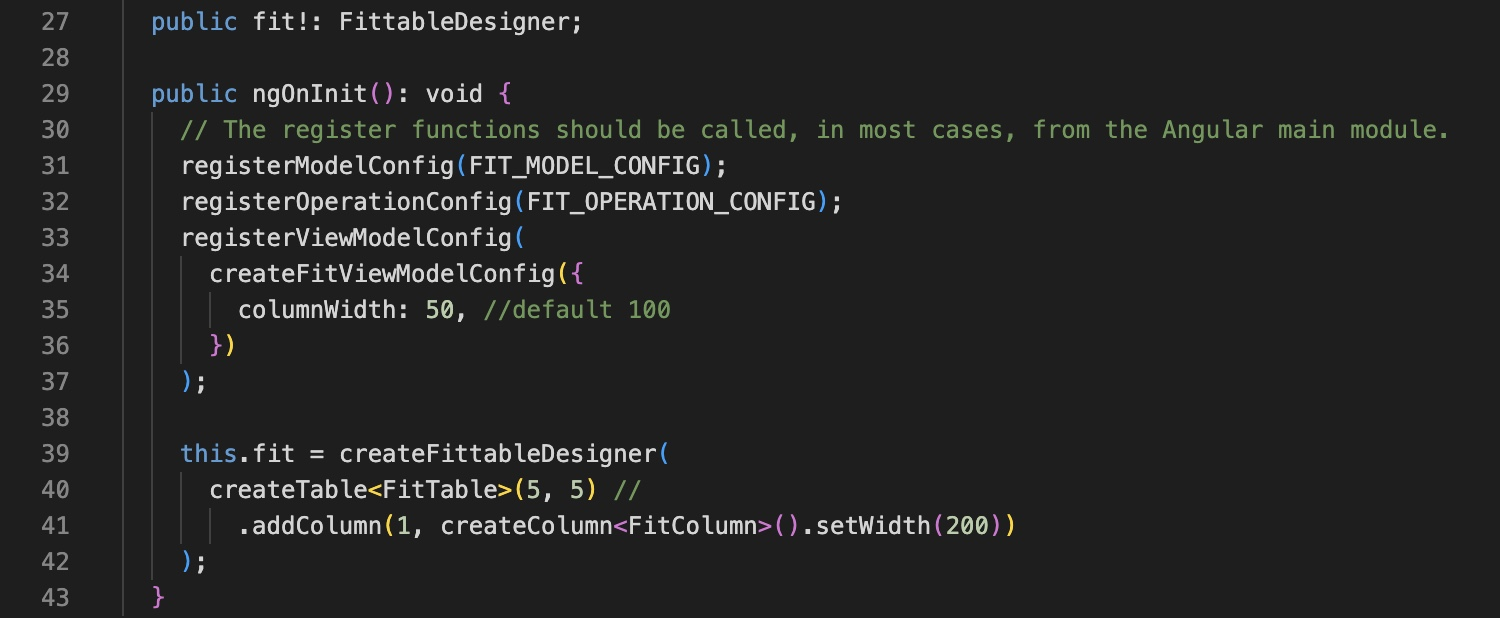
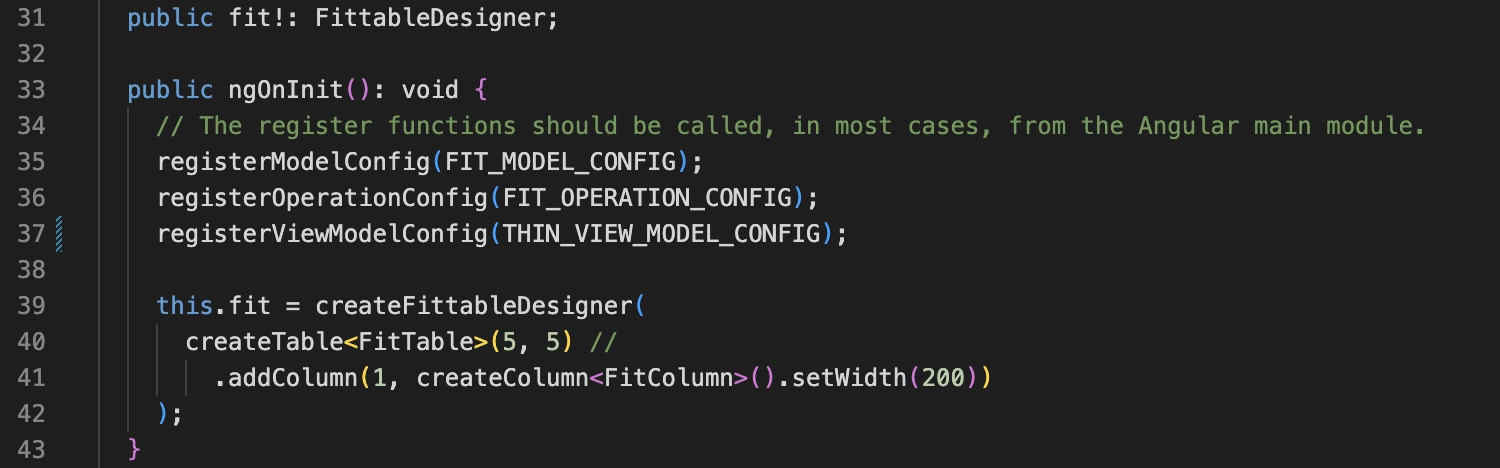
Create user docs app

Changed region(s): [[0.0, 0.0, 0.9813, 0.9872], [0.0, 0.8675, 0.0307, 0.8974], [0.0, 0.3291, 0.0307, 0.359]]

diff --git a/angular-app/ngx-fittable-docs/src/app/app.module.ts b/angular-app/ngx-fittable-docs/src/app/app.module.ts
@@ -6,9 +6,7 @@ import { NgxFittableModule } from 'ngx-fittable';
 import { AppComponent } from './app.component';
 import { NavigationTreeComponent } from './navigation-tree/navigation-tree.component';
 import { IntroductionComponent } from './topics/getting-started/introduction/introduction.component';
-import { RowHeaderComponent } from './topics/table-model/row-header.component';
 import { RowHeightComponent } from './topics/table-model/row-height.component';
-import { ColumnHeaderComponent } from './topics/table-model/column-header.component';
 import { ColumnWidthtComponent } from './topics/table-model/column-width.component';
 import { CellValueComponent } from './topics/table-model/cell-value.component';
 import { CellStyleComponent } from './topics/table-model/cell-style.component';
@@ -34,6 +32,10 @@ import { MergeCellsComponent } from './topics/table-operations/merge-cells.compo
 import { UnmergeCellsComponent } from './topics/table-operations/unmerge-cells.component';
 import { OperationDtoComponent } from './topics/table-operations/operation-dto.component';
 import { CustomOperationComponent } from './topics/table-operations/custom-operation.component';
+import { RowHeaderComponent } from './topics/table-designer/row-header.component';
+import { ColumnHeaderComponent } from './topics/table-designer/column-header.component';
+import { RowHeightsComponent } from './topics/table-designer/row-heights.component';
+import { ColumnWidthtsComponent } from './topics/table-designer/column-widths.component';
 import { TableScrollerComponent } from './topics/table-designer/table-scroller.component';
 import { CellSelectionComponent } from './topics/table-designer/cell-selection.component';
 import { CellEditorComponent } from './topics/table-designer/cell-editor.component';
@@ -53,9 +55,7 @@ import { ArchitectureComponent } from './topics/getting-started/architecture/arc
     NavigationTreeComponent,
     IntroductionComponent,
     ArchitectureComponent,
-    RowHeaderComponent,
     RowHeightComponent,
-    ColumnHeaderComponent,
     ColumnWidthtComponent,
     CellValueComponent,
     CellStyleComponent,
@@ -81,6 +81,10 @@ import { ArchitectureComponent } from './topics/getting-started/architecture/arc
     UnmergeCellsComponent,
     OperationDtoComponent,
     CustomOperationComponent,
+    RowHeaderComponent,
+    ColumnHeaderComponent,
+    RowHeightsComponent,
+    ColumnWidthtsComponent,
     TableScrollerComponent,
     CellSelectionComponent,
     CellEditorComponent,

diff --git a/angular-app/ngx-fittable-docs/src/app/topics/table-designer/column-widths.component.ts b/angular-app/ngx-fittable-docs/src/app/topics/table-designer/column-widths.component.ts
@@ -1,32 +1,32 @@
 import { Component, OnInit } from '@angular/core';
 
-import { createColumn, createTable, registerModelConfig } from 'fit-core/model';
+import { createTable, registerModelConfig } from 'fit-core/model';
 import { registerOperationConfig } from 'fit-core/operations';
 import {
   createFittableDesigner,
   FittableDesigner,
   registerViewModelConfig,
 } from 'fit-core/view-model';
-import { FitColumn, FitTable, FIT_MODEL_CONFIG } from 'fit-model';
+import { FIT_MODEL_CONFIG } from 'fit-model';
 import { FIT_OPERATION_CONFIG } from 'fit-model-operations';
-import { THIN_VIEW_MODEL_CONFIG } from 'fit-view-model';
+import { createFitViewModelConfig } from 'fit-view-model';
 
 import { CodeSnippet } from '../common/code-snippet.model';
 import { TopicTitle } from '../../common/topic-title.model';
 import { SimpleTopic } from '../common/simple-topic.model';
 
 @Component({
-  selector: 'column-width',
+  selector: 'column-widths',
   templateUrl: '../common/simple-topic.html',
   styleUrls: ['../common/simple-topic.css', '../common/common.css'],
 })
-export class ColumnWidthtComponent implements SimpleTopic, OnInit {
-  public readonly title: TopicTitle = 'Column width';
+export class ColumnWidthtsComponent implements SimpleTopic, OnInit {
+  public readonly title: TopicTitle = 'Column widths';
   public readonly htmlCode: CodeSnippet[] = [
     { image: 'fittable-component-html.jpg' },
   ];
   public readonly typescriptCode: CodeSnippet[] = [
-    { image: 'column-width-ts.jpg' },
+    { image: 'column-widths-ts.jpg' },
   ];
   public fit!: FittableDesigner;
 
@@ -34,11 +34,12 @@ export class ColumnWidthtComponent implements SimpleTopic, OnInit {
     // The register functions should be called, in most cases, from the Angular main module.
     registerModelConfig(FIT_MODEL_CONFIG);
     registerOperationConfig(FIT_OPERATION_CONFIG);
-    registerViewModelConfig(THIN_VIEW_MODEL_CONFIG);
-
-    this.fit = createFittableDesigner(
-      createTable<FitTable>(5, 5) //
-        .addColumn(1, createColumn<FitColumn>().setWidth(200))
+    registerViewModelConfig(
+      createFitViewModelConfig({
+        columnWidths: 50, //default 100
+      })
     );
+
+    this.fit = createFittableDesigner(createTable(5, 5));
   }
 }

diff --git a/angular-app/ngx-fittable-docs/src/app/topics/table-designer/row-heights.component.ts b/angular-app/ngx-fittable-docs/src/app/topics/table-designer/row-heights.component.ts
@@ -1,32 +1,32 @@
 import { Component, OnInit } from '@angular/core';
 
-import { createColumn, createTable, registerModelConfig } from 'fit-core/model';
+import { createTable, registerModelConfig } from 'fit-core/model';
 import { registerOperationConfig } from 'fit-core/operations';
 import {
   createFittableDesigner,
   FittableDesigner,
   registerViewModelConfig,
 } from 'fit-core/view-model';
-import { FitColumn, FitTable, FIT_MODEL_CONFIG } from 'fit-model';
+import { FIT_MODEL_CONFIG } from 'fit-model';
 import { FIT_OPERATION_CONFIG } from 'fit-model-operations';
-import { THIN_VIEW_MODEL_CONFIG } from 'fit-view-model';
+import { createFitViewModelConfig } from 'fit-view-model';
 
 import { CodeSnippet } from '../common/code-snippet.model';
 import { TopicTitle } from '../../common/topic-title.model';
 import { SimpleTopic } from '../common/simple-topic.model';
 
 @Component({
-  selector: 'column-width',
+  selector: 'row-heights',
   templateUrl: '../common/simple-topic.html',
   styleUrls: ['../common/simple-topic.css', '../common/common.css'],
 })
-export class ColumnWidthtComponent implements SimpleTopic, OnInit {
-  public readonly title: TopicTitle = 'Column width';
+export class RowHeightsComponent implements SimpleTopic, OnInit {
+  public readonly title: TopicTitle = 'Row heights';
   public readonly htmlCode: CodeSnippet[] = [
     { image: 'fittable-component-html.jpg' },
   ];
   public readonly typescriptCode: CodeSnippet[] = [
-    { image: 'column-width-ts.jpg' },
+    { image: 'row-heights-ts.jpg' },
   ];
   public fit!: FittableDesigner;
 
@@ -34,11 +34,12 @@ export class ColumnWidthtComponent implements SimpleTopic, OnInit {
     // The register functions should be called, in most cases, from the Angular main module.
     registerModelConfig(FIT_MODEL_CONFIG);
     registerOperationConfig(FIT_OPERATION_CONFIG);
-    registerViewModelConfig(THIN_VIEW_MODEL_CONFIG);
-
-    this.fit = createFittableDesigner(
-      createTable<FitTable>(5, 5) //
-        .addColumn(1, createColumn<FitColumn>().setWidth(200))
+    registerViewModelConfig(
+      createFitViewModelConfig({
+        rowHeights: 10, //default 21
+      })
     );
+
+    this.fit = createFittableDesigner(createTable(5, 5));
   }
 }

diff --git a/typescript-lib/fit-view-model/src/fit-view-model-config.ts b/typescript-lib/fit-view-model/src/fit-view-model-config.ts
@@ -28,8 +28,8 @@ import {
 } from 'fit-core/common/core-functions.js';
 
 export const FIT_VIEW_MODEL_CONFIG: ViewModelConfig = {
-  rowHeight: 21,
-  columnWidth: 100,
+  rowHeights: 21,
+  columnWidths: 100,
   fontSize: 12,
   colorPalette: COLOR_PALETTE,
   fontFamily: FONT_FAMILY,
@@ -61,8 +61,8 @@ export const FIT_VIEW_MODEL_CONFIG: ViewModelConfig = {
 
 export const THIN_VIEW_MODEL_CONFIG: ViewModelConfig = {
   fontSize: FIT_VIEW_MODEL_CONFIG.fontSize,
-  rowHeight: FIT_VIEW_MODEL_CONFIG.rowHeight,
-  columnWidth: FIT_VIEW_MODEL_CONFIG.columnWidth,
+  rowHeights: FIT_VIEW_MODEL_CONFIG.rowHeights,
+  columnWidths: FIT_VIEW_MODEL_CONFIG.columnWidths,
   viewModelFactory: FIT_VIEW_MODEL_CONFIG.viewModelFactory,
   languageDictionaryFactory: FIT_VIEW_MODEL_CONFIG.languageDictionaryFactory,
   imageRegistryFactory: FIT_VIEW_MODEL_CONFIG.imageRegistryFactory,
@@ -75,8 +75,8 @@ export const THIN_VIEW_MODEL_CONFIG: ViewModelConfig = {
 
 export type FitViewModelConfigDef = {
   fontSize?: number;
-  rowHeight?: number;
-  columnWidth?: number;
+  rowHeights?: number;
+  columnWidths?: number;
   colorPalette?: Option[];
   fontFamily?: Option[];
   showRowHeader?: boolean;
@@ -120,8 +120,8 @@ function updateUnitConfig(
   def: FitViewModelConfigDef
 ): void {
   if (def.fontSize) cfg.fontSize = def.fontSize;
-  if (def.rowHeight) cfg.rowHeight = def.rowHeight;
-  if (def.columnWidth) cfg.columnWidth = def.columnWidth;
+  if (def.rowHeights) cfg.rowHeights = def.rowHeights;
+  if (def.columnWidths) cfg.columnWidths = def.columnWidths;
   if (def.disableVirtualRows !== undefined) {
     cfg.disableVirtualRows = def.disableVirtualRows;
   }

diff --git a/angular-app/ngx-fittable-docs/src/app/app.component.html b/angular-app/ngx-fittable-docs/src/app/app.component.html
@@ -8,9 +8,7 @@
   <div class="content">
     <introduction *ngIf="activeContent==='Introduction'"></introduction>
     <architecture *ngIf="activeContent==='Architecture'"></architecture>
-    <row-header *ngIf="activeContent==='Row header'"></row-header>
     <row-height *ngIf="activeContent==='Row height'"></row-height>
-    <column-header *ngIf="activeContent==='Column header'"></column-header>
     <column-width *ngIf="activeContent==='Column width'"></column-width>
     <cell-value *ngIf="activeContent==='Cell value'"></cell-value>
     <cell-style *ngIf="activeContent==='Cell style'"></cell-style>
@@ -36,6 +34,10 @@
     <unmerge-cells *ngIf="activeContent==='Unmerge cells'"></unmerge-cells>
     <operation-dto *ngIf="activeContent==='Operation DTO'"></operation-dto>
     <custom-operation *ngIf="activeContent==='Custom operation'"></custom-operation>
+    <row-header *ngIf="activeContent==='Row header'"></row-header>
+    <column-header *ngIf="activeContent==='Column header'"></column-header>
+    <row-heights *ngIf="activeContent==='Row heights'"></row-heights>
+    <column-widths *ngIf="activeContent==='Column widths'"></column-widths>
     <table-scroller *ngIf="activeContent==='Table scroller'"></table-scroller>
     <cell-selection *ngIf="activeContent==='Cell selection'"></cell-selection>
     <cell-editor *ngIf="activeContent==='Cell editor'"></cell-editor>

diff --git a/angular-app/ngx-fittable-docs/src/app/topics/table-model/row-height.component.ts b/angular-app/ngx-fittable-docs/src/app/topics/table-model/row-height.component.ts
@@ -9,7 +9,7 @@ import {
 } from 'fit-core/view-model';
 import { FitRow, FitTable, FIT_MODEL_CONFIG } from 'fit-model';
 import { FIT_OPERATION_CONFIG } from 'fit-model-operations';
-import { createFitViewModelConfig } from 'fit-view-model';
+import { THIN_VIEW_MODEL_CONFIG } from 'fit-view-model';
 
 import { CodeSnippet } from '../common/code-snippet.model';
 import { TopicTitle } from '../../common/topic-title.model';
@@ -34,11 +34,7 @@ export class RowHeightComponent implements SimpleTopic, OnInit {
     // The register functions should be called, in most cases, from the Angular main module.
     registerModelConfig(FIT_MODEL_CONFIG);
     registerOperationConfig(FIT_OPERATION_CONFIG);
-    registerViewModelConfig(
-      createFitViewModelConfig({
-        rowHeight: 10, //default 21
-      })
-    );
+    registerViewModelConfig(THIN_VIEW_MODEL_CONFIG);
 
     this.fit = createFittableDesigner(
       createTable<FitTable>(5, 5).addRow(1, createRow<FitRow>().setHeight(42))

diff --git a/typescript-lib/fit-view-model/src/model/controls/context-menu/controls/column-menu-items.ts b/typescript-lib/fit-view-model/src/model/controls/context-menu/controls/column-menu-items.ts
@@ -34,7 +34,7 @@ export class ColumnResizeMenuItem extends InputMenuItem {
     const cTable: TableColumns | undefined = asTableColumns(table);
     const column: Column | undefined = cTable?.getColumn(colId);
     const columnWidth: number | undefined = asColumnWidth(column)?.getWidth();
-    return columnWidth ?? this.config.columnWidth;
+    return columnWidth ?? this.config.columnWidths;
   }
 
   public override isValid(): boolean {
@@ -57,7 +57,7 @@ export class ColumnResizeMenuItem extends InputMenuItem {
       id: 'column-width',
       selectedLines: this.getSelectedColumns(),
       dimension:
-        this.value === this.config.columnWidth ? undefined : this.value,
+        this.value === this.config.columnWidths ? undefined : this.value,
     };
   }
 }

diff --git a/typescript-lib/fit-view-model/src/model/table-viewer/fit-table-viewer.ts b/typescript-lib/fit-view-model/src/model/table-viewer/fit-table-viewer.ts
@@ -60,7 +60,7 @@ export class FitTableViewer implements TableViewer {
 
   public getColumnWidth(colId: number): number {
     const col: Column | undefined = this.columnTable?.getColumn(colId);
-    return asColumnWidth(col)?.getWidth() ?? this.config.columnWidth;
+    return asColumnWidth(col)?.getWidth() ?? this.config.columnWidths;
   }
 
   public getRowHeaderWidth(): number {
@@ -82,7 +82,7 @@ export class FitTableViewer implements TableViewer {
 
   public getRowHeight(rowId: number): number {
     const row: Row | undefined = this.rowTable?.getRow(rowId);
-    return asRowHeight(row)?.getHeight() ?? this.config.rowHeight;
+    return asRowHeight(row)?.getHeight() ?? this.config.rowHeights;
   }
 
   public getColumnHeaderHeight(): number {

diff --git a/typescript-lib/fit-view-model/src/model/controls/context-menu/controls/row-menu-items.ts b/typescript-lib/fit-view-model/src/model/controls/context-menu/controls/row-menu-items.ts
@@ -34,7 +34,7 @@ export class RowResizeMenuItem extends InputMenuItem {
     const rTable: TableRows | undefined = asTableRows(table);
     const row: Row | undefined = rTable?.getRow(rowId);
     const rowHeight: number | undefined = asRowHeight(row)?.getHeight();
-    return rowHeight ?? this.config.rowHeight;
+    return rowHeight ?? this.config.rowHeights;
   }
 
   public override isValid(): boolean {
@@ -56,7 +56,7 @@ export class RowResizeMenuItem extends InputMenuItem {
     return {
       id: 'row-height',
       selectedLines: this.getSelectedRows(),
-      dimension: this.value === this.config.rowHeight ? undefined : this.value,
+      dimension: this.value === this.config.rowHeights ? undefined : this.value,
     };
   }
 }

diff --git a/angular-app/ngx-fittable-docs/src/app/topics/getting-started/introduction/introduction.component.html b/angular-app/ngx-fittable-docs/src/app/topics/getting-started/introduction/introduction.component.html
@@ -2,8 +2,8 @@
   <h1 class="title">{{title}}</h1>
   <p class="description">
     Fittable is an Angular / Typescript component, designed to handle custom table structures, with spreadsheet
-    capabilities. It comes equiped with a dynamic table model representation, an operation execution mechanism and
-    corresponding UI functionalities, all of which are highly adaptable.
+    capabilities. It includes a dynamic table model, an operation execution mechanism and corresponding UI
+    functionalities, all of which are highly adaptable.
   </p>
   <p class="description">
     Fittable's main module was developd in Angular, representing strictly the view of the application, while the view

diff --git a/angular-app/ngx-fittable-docs/src/app/navigation-tree/navigation-tree.component.ts b/angular-app/ngx-fittable-docs/src/app/navigation-tree/navigation-tree.component.ts
@@ -52,9 +52,7 @@ function createTree(): Composite[] {
       label: 'Table model',
       isExpended: false,
       leafs: [
-        'Row header',
         'Row height',
-        'Column header',
         'Column width',
         'Cell value',
         'Cell style',
@@ -92,9 +90,13 @@ function createTree(): Composite[] {
       label: 'Table designer',
       isExpended: false,
       leafs: [
-        'Table scroller',
+        'Row header',
+        'Column header',
+        'Row heights',
+        'Column widths',
         'Cell selection',
         'Cell editor',
+        'Table scroller',
         'Language dictionary',
         'Image registry',
         'Theme switcher',

diff --git a/angular-app/ngx-fittable-docs/src/app/common/topic-title.model.ts b/angular-app/ngx-fittable-docs/src/app/common/topic-title.model.ts
@@ -2,9 +2,7 @@ export type TopicTitle =
   | 'Introduction'
   | 'Architecture'
   | 'Installation'
-  | 'Row header'
   | 'Row height'
-  | 'Column header'
   | 'Column width'
   | 'Cell value'
   | 'Cell style'
@@ -31,6 +29,10 @@ export type TopicTitle =
   | 'Unmerge cells'
   | 'Operation DTO'
   | 'Custom operation'
+  | 'Row header'
+  | 'Column header'
+  | 'Row heights'
+  | 'Column widths'
   | 'Language dictionary'
   | 'Image registry'
   | 'Table scroller'
